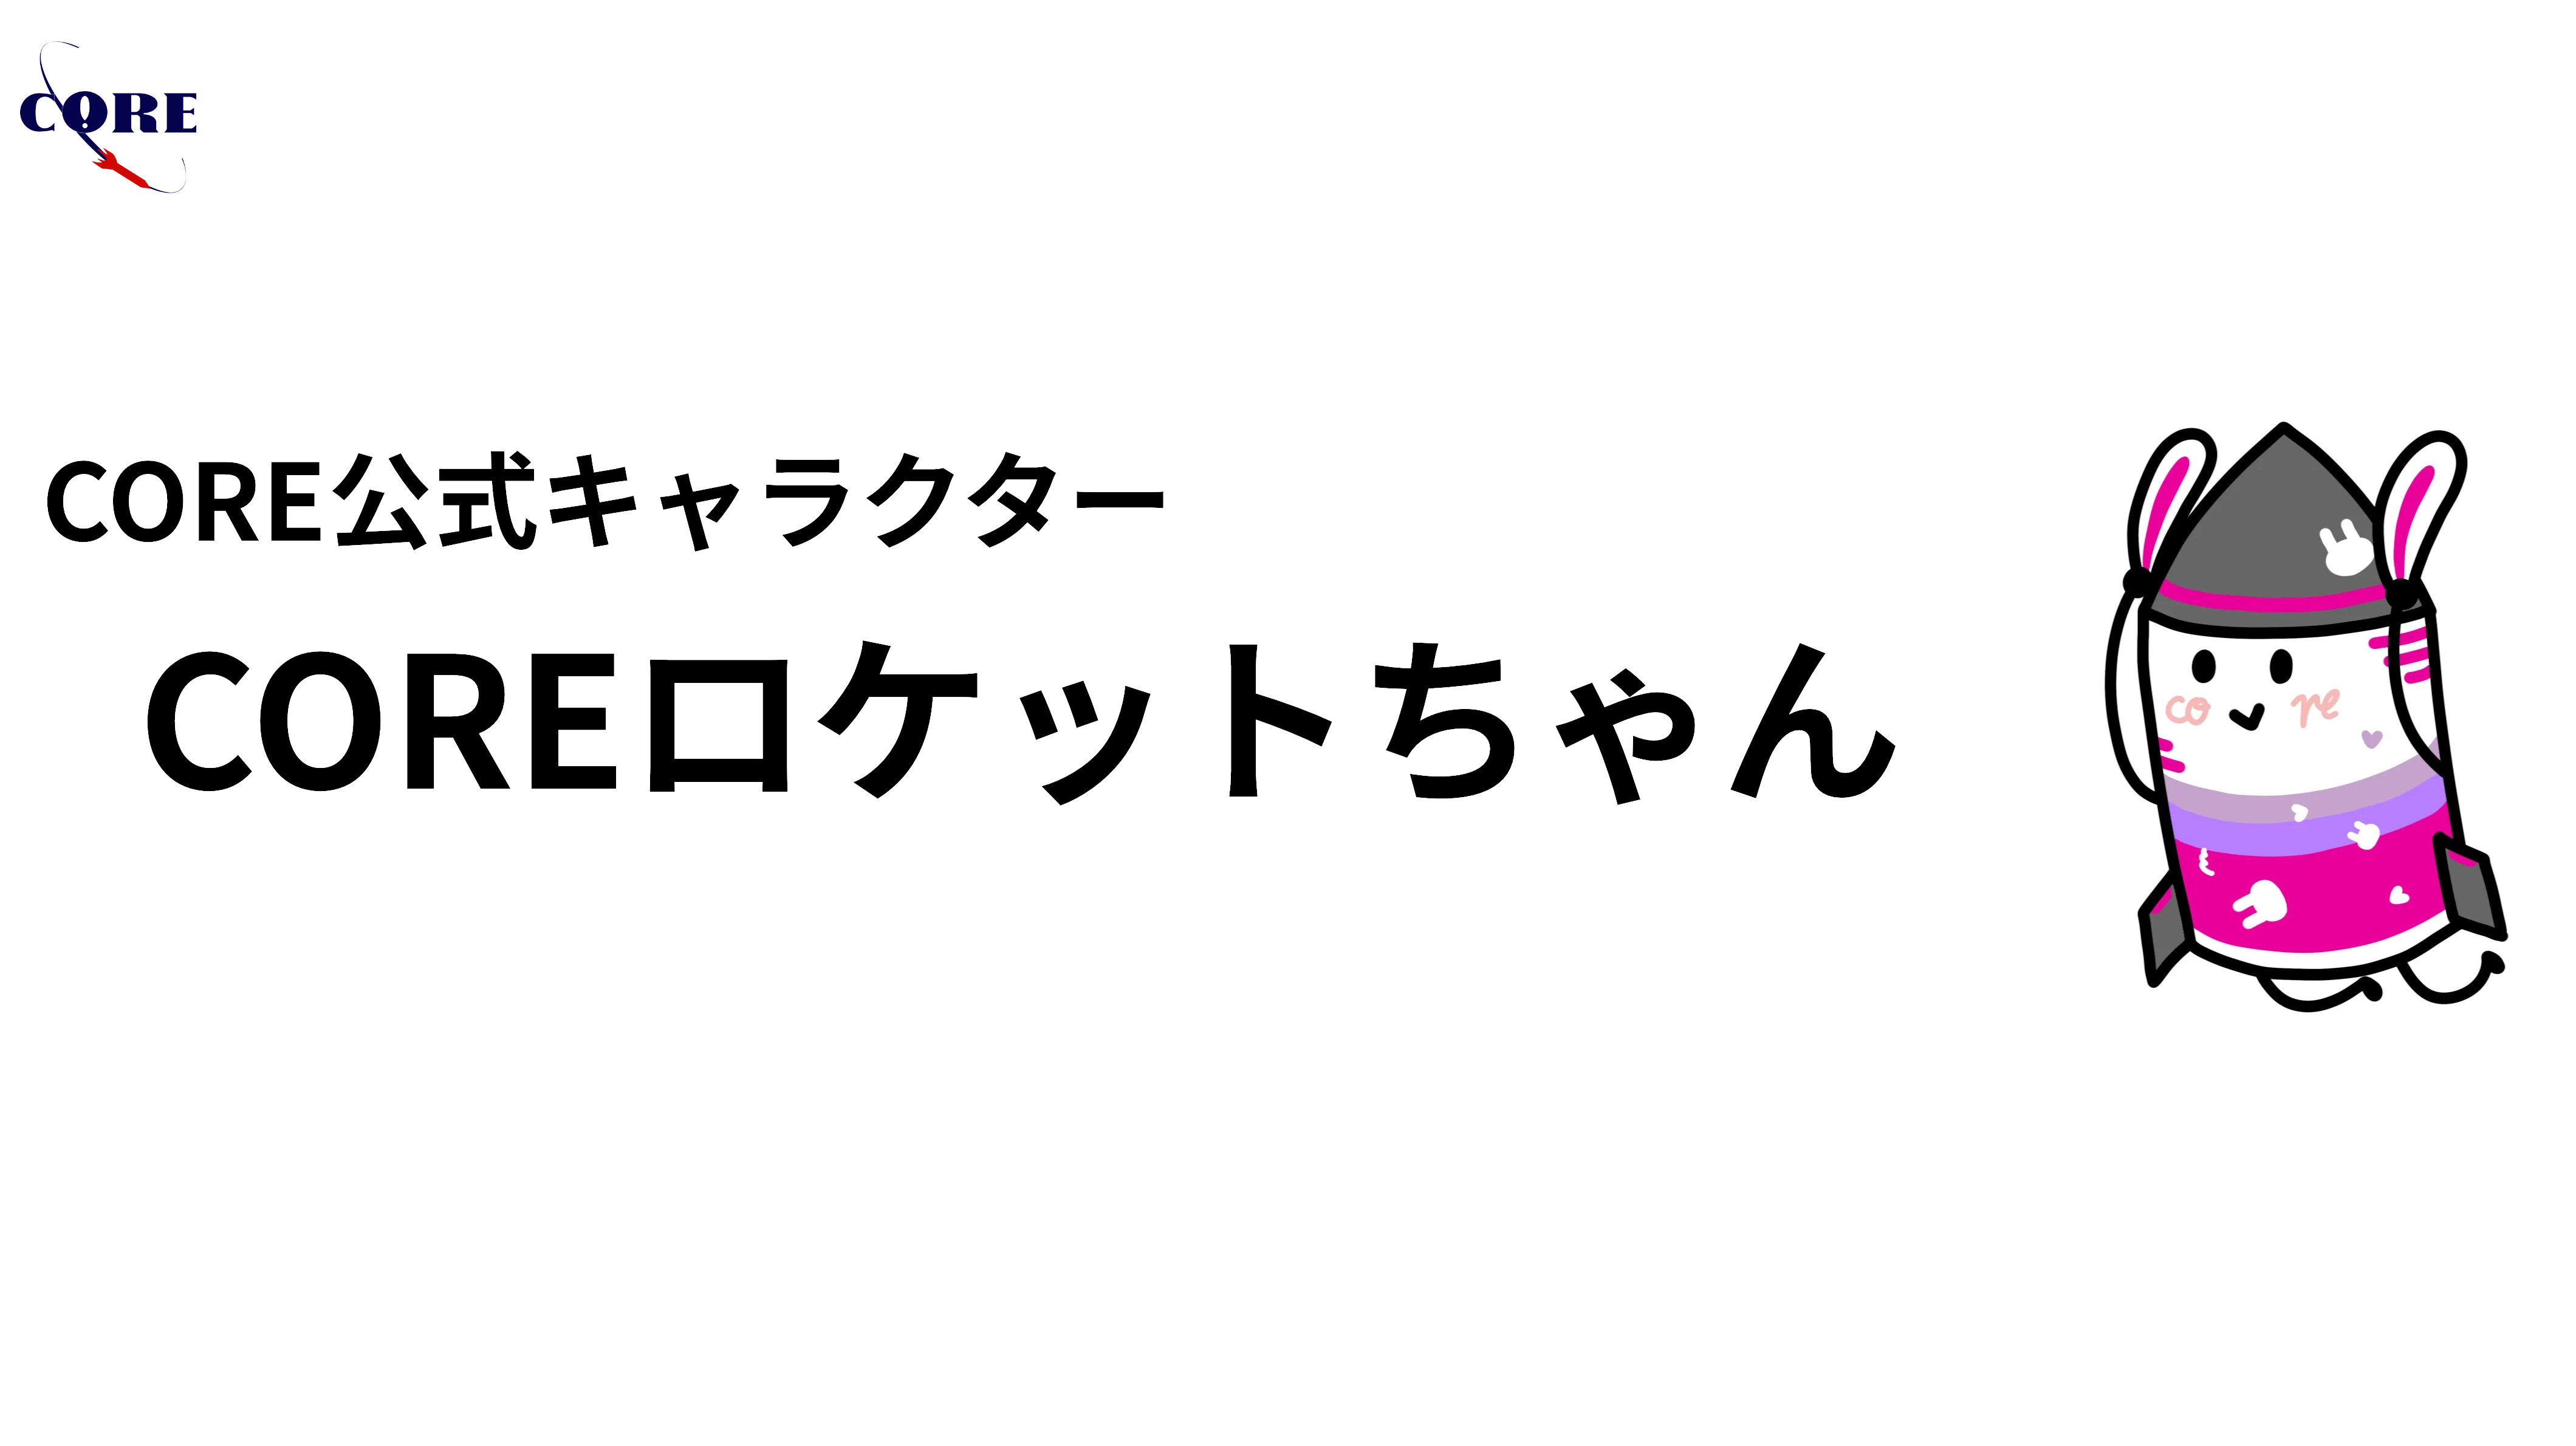
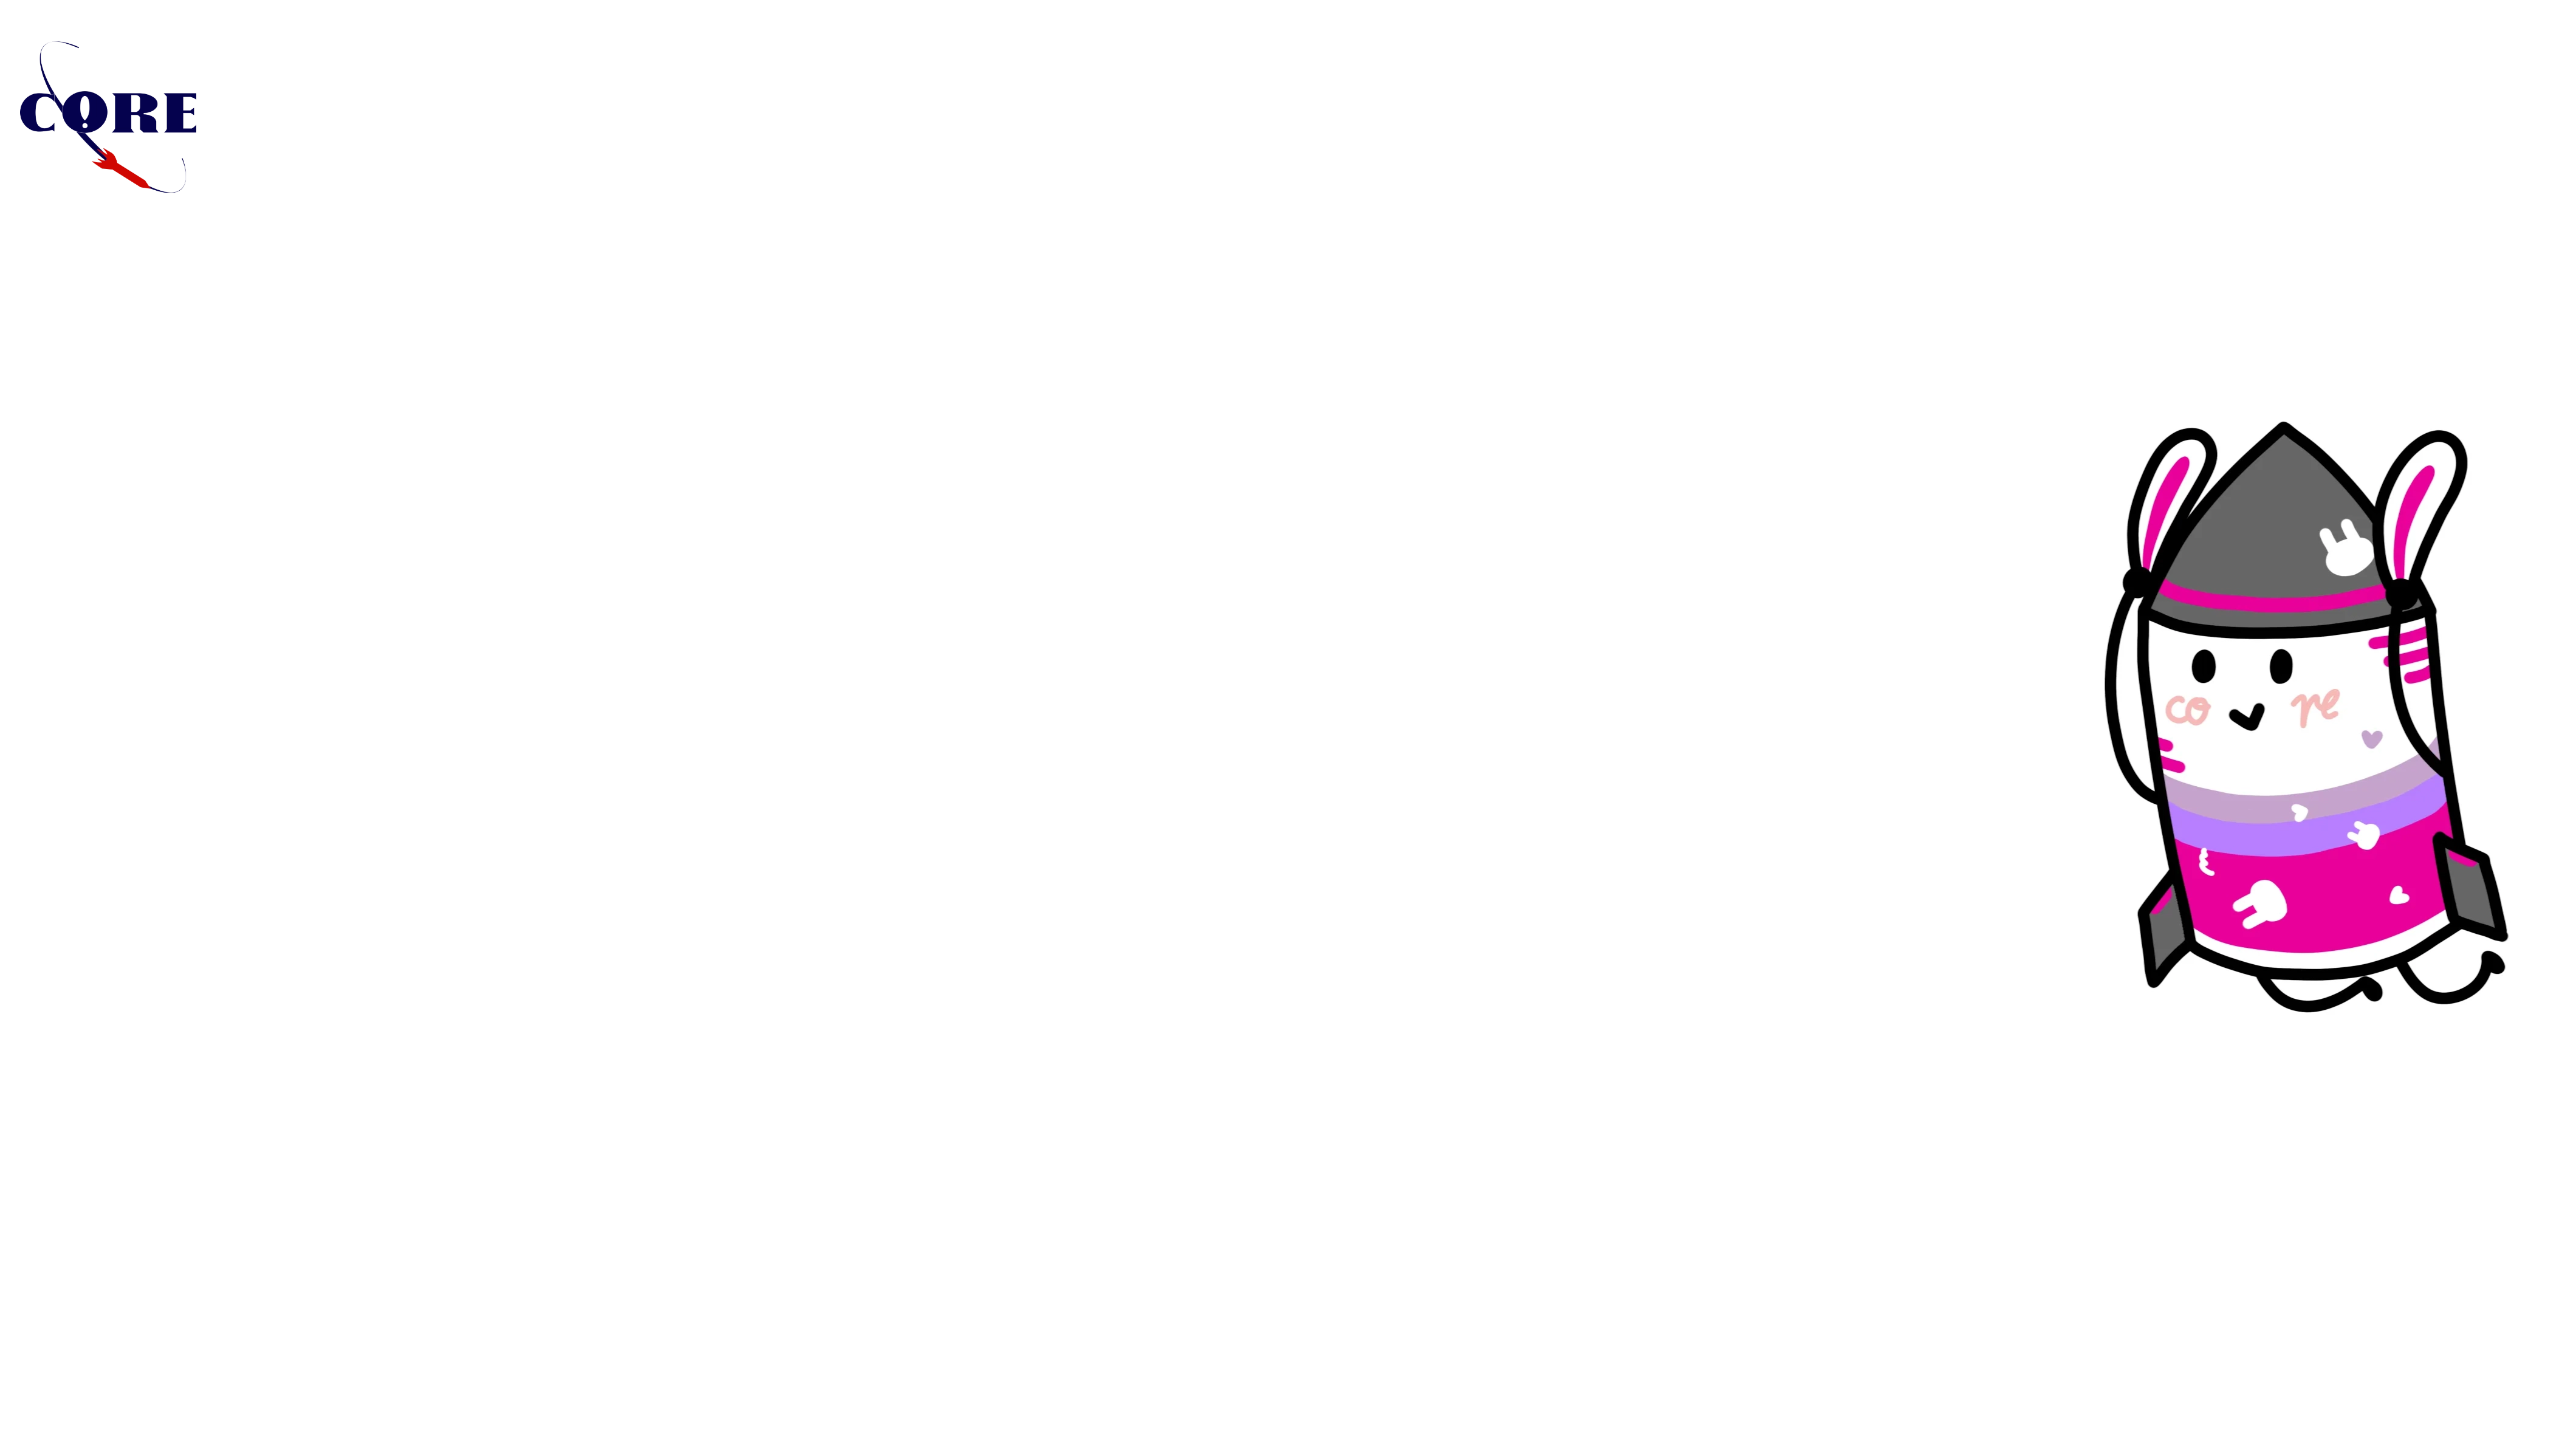
260424

Changed region(s): [[0.0311, 0.4353, 0.7472, 0.5597], [0.0, 0.3109, 0.467, 0.3731]]

diff --git a/layouts/partials/core-rocket-chan.html b/layouts/partials/core-rocket-chan.html
@@ -24,7 +24,10 @@
 			<div class="heading text-left"><h2>COREロケットちゃん</h2></div><br>
             <div style="text-align: center;">
                 <a href="https://core-rocketchan.jimdofree.com/">
-                    <img src="/img/coreroke/coreroke_post6.webp" style="margin-left: auto; margin-right: auto;" loading="lazy">
+                    <picture>
+                        <source srcset="/img/coreroke/coreroke_post_6.webp" style="margin-left: auto; margin-right: auto;" loading="lazy" media="(prefers-color-scheme: dark)">
+                        <img src="/img/coreroke/coreroke_post_5.webp"  style="margin-left: auto; margin-right: auto;" loading="lazy">
+                    </picture>
                 </a>
             </div>
         </div>

diff --git a/content/sponsor.html b/content/sponsor.html
@@ -215,7 +215,7 @@ title: "Sponsor"
 }
 @media (max-width: 470px){
     .sponsor-card h2 {
-        font-size: 12pt;
+        font-size: 11pt;
     }
     .btn_03{
         width:120px;